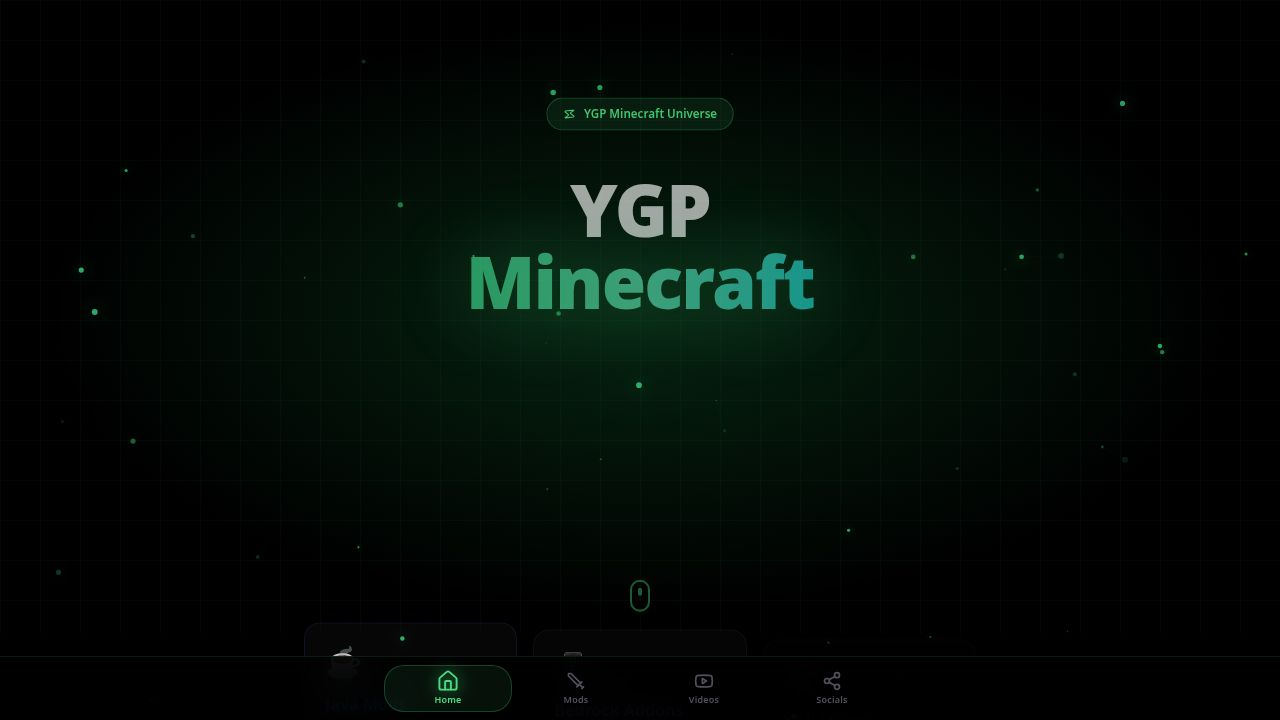
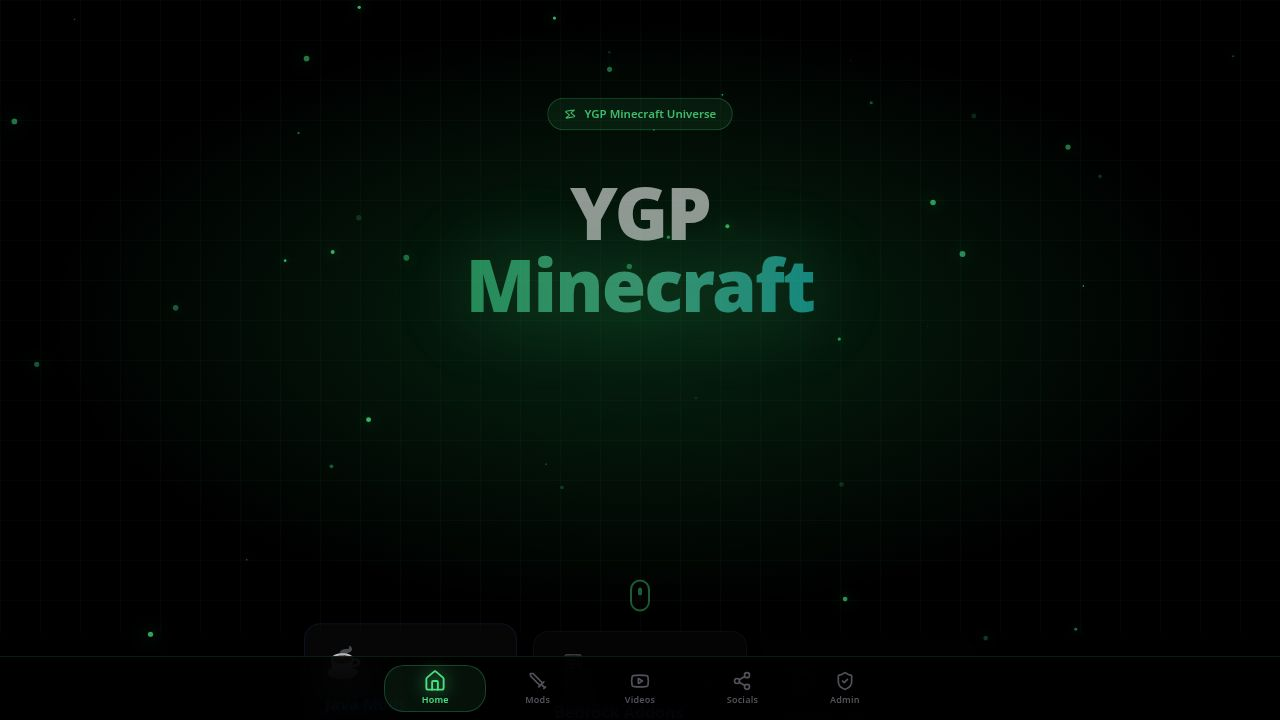
Restore admin page and fix video channel filtering
Adds the Admin tab to the bottom navigation and corrects the Yojit Art and Music channel filtering logic.

Replit-Commit-Author: Agent
Replit-Commit-Session-Id: 07ff4dba-7a5c-42d1-bf06-e2a243f7a7fc
Replit-Commit-Checkpoint-Type: full_checkpoint
Replit-Commit-Event-Id: 96d7ea3d-4814-4e45-b052-946d3b140315
Replit-Commit-Screenshot-Url: https://storage.googleapis.com/screenshot-production-us-central1/c0802616-d351-4ce8-8117-ac9398df55cc/07ff4dba-7a5c-42d1-bf06-e2a243f7a7fc/8M4Ozrg
Replit-Helium-Checkpoint-Created: true

diff --git a/artifacts/minecraft/src/components/bottom-nav.tsx b/artifacts/minecraft/src/components/bottom-nav.tsx
@@ -1,5 +1,5 @@
 import { useLocation } from "wouter";
-import { Home, Sword, Youtube, Share2 } from "lucide-react";
+import { Home, Sword, Youtube, Share2, ShieldCheck } from "lucide-react";
 import { motion } from "framer-motion";
 
 const NAV = [
@@ -7,6 +7,7 @@ const NAV = [
   { href: "/mods", icon: Sword, label: "Mods" },
   { href: "/youtube", icon: Youtube, label: "Videos" },
   { href: "/socials", icon: Share2, label: "Socials" },
+  { href: "/admin", icon: ShieldCheck, label: "Admin" },
 ];
 
 export default function BottomNav() {

diff --git a/artifacts/api-server/src/routes/rss.ts b/artifacts/api-server/src/routes/rss.ts
@@ -13,7 +13,7 @@ const CHANNELS = [
   { name: "YGP Minecraft",     id: "UC2qPOU2DmdFWCB48n25kOlw" },
   { name: "YGP Countryballs",  id: "UCjTIKbyiJbyaPyVUTsIXyBg" },
   { name: "YGP Tech",          id: "UCm0W2zSESrjDtHiQcR6pqEQ" },
-  { name: "Yojit Art and Song",id: "UC8o27uf8chge9WO4HOk2Fag" },
+  { name: "Yojit Art and Music", id: "UC8o27uf8chge9WO4HOk2Fag" },
 ];
 
 function extractVideoId(item: any): string {